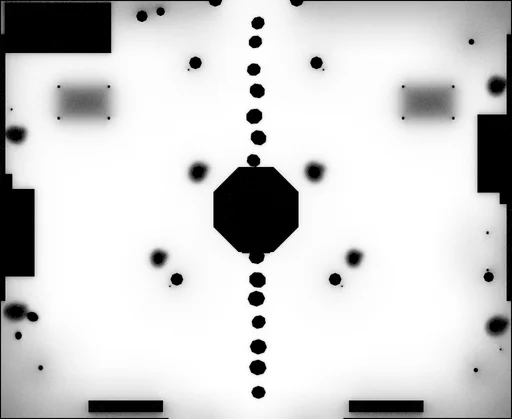
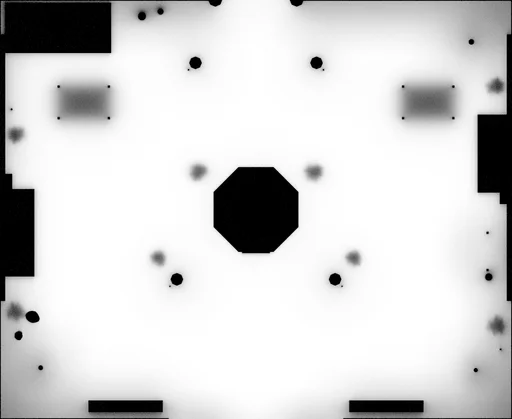
feat(world): laid granite walks through the courtyard and down Hangul Village; courtyard floor light re-baked
- Courtyard (first room): arrival → egg → gate path was a gravel strip with
  round stepping stones — from the start view and above it read as a row
  of dark discs on the pale madang. Now two slabWalk() runs (박석 slabs,
  kerbs, joint bed), same as the Hub square.
- Phones: the dark discs were mostly the stones' shadows baked into the
  courtyard's shade layer (court_shade.webp / court_ao.webp, from 16 Oct).
  Re-baked with Cycles (bpy 5.2) from the current room — also picks up the
  newer trees, azalea and flowers. export-geometry skips geometry under
  4.5 cm (laid paving would otherwise print kerb lines).
- Hangul Village: stepping stones up the cobbled street and along the lane
  to the Hub → laid granite walks parting round the well.
- Phone tier courtyard 129 → 128 calls; Hangul Village 239 → 238.

Claude-Session: https://claude.ai/code/session_015xew6y5Xw3vbfm4LCKV75f

diff --git a/src/game/environment/Lobby.tsx b/src/game/environment/Lobby.tsx
@@ -7,7 +7,7 @@ import ModelProp, { type PropPlacement } from "./ModelProp";
 import { REAL_PROPS } from "../systems/styleMode";
 import CloverEgg from "./CloverEgg";
 import { BakedShade, useBakedFloor } from "./BakedFloor";
-import { BED_SOIL, Kit, azalea, bed, flowers, gatehouse, grass, gutter, hanokHouse, noticeBoard, pine, planter, platform, pot, rock, steppingStones, stoneLantern, tree, wallRun } from "./kit";
+import { BED_SOIL, Kit, azalea, bed, flowers, gatehouse, grass, gutter, hanokHouse, noticeBoard, pine, planter, platform, pot, rock, slabWalk, stoneLantern, tree, wallRun } from "./kit";
 import { Gate, Signboard } from "./parts";
 import { paintMadang, useTiledTexture, floorBreakup, FLOOR_BREAKUP_KEY } from "./textures";
 import { FLOOR_GRID } from "../config/world";
@@ -58,12 +58,11 @@ const COURTYARD_KIT: Kit = (() => {
   // Village roofs beyond the north wall: the promise of what is next.
   hanokHouse(k, { x: -6.5, z: -HD - 4.2, w: 6, d: 4.2, h: 2.4, face: "+z" });
   hanokHouse(k, { x: 6.8, z: -HD - 4.6, w: 5.4, d: 4.4, h: 2.8, face: "+z", roofH: 1.3 });
-  // The path the eye follows: arrival → egg → gate, in pale dressed stone
-  // on a darker bed of gravel, so the route reads from anywhere.
-  k.box("gravel", [0, 0.006, (PROPS.eggPlinth.w / 2 + 0.6 + HD - 1.2) / 2], [1.25, 0.012, HD - 1.8 - PROPS.eggPlinth.w / 2], false);
-  k.box("gravel", [0, 0.006, (-PROPS.eggPlinth.w / 2 - 0.6 - HD + 0.9) / 2], [1.25, 0.012, HD - 1.5 - PROPS.eggPlinth.w / 2], false);
-  steppingStones(k, 0, PROPS.eggPlinth.w / 2 + 0.6, 0, HD - 1.2, 0.95, 3, "stoneWarm");
-  steppingStones(k, 0, -PROPS.eggPlinth.w / 2 - 0.6, 0, -HD + 0.9, 0.95, 17, "stoneWarm");
+  // The path the eye follows: arrival → egg → gate, a laid granite walk
+  // (박석) with kerbs, so the route reads from anywhere without dotting the
+  // pale madang with dark discs.
+  slabWalk(k, 0, HD - 0.75, 0, PROPS.eggPlinth.w / 2 + 0.45, 1.25, 3);
+  slabWalk(k, 0, -PROPS.eggPlinth.w / 2 - 0.45, 0, -HD + 0.45, 1.25, 17);
   // Drip-line gravel along every wall foot.
   gutter(k, -HW + 0.27, -HD, -HW + 0.27, HD);
   gutter(k, HW - 0.27, -HD, HW - 0.27, HD);

diff --git a/src/game/environment/HangulVillage.tsx b/src/game/environment/HangulVillage.tsx
@@ -2,7 +2,7 @@ import { MAT } from "../config/materials";
 import { VILLAGE } from "../config/rooms";
 import { PALETTE } from "../config/world";
 import Batch from "./Batch";
-import { Kit, bed, cart, curvedRoofOn, grass, hanokHouse, hanokRoof, jitter, platform, pot, shrub, steppingStones, tree, wallRun, gatehouse, flowerBox } from "./kit";
+import { Kit, bed, cart, curvedRoofOn, grass, hanokHouse, hanokRoof, jitter, platform, pot, shrub, slabWalk, tree, wallRun, gatehouse, flowerBox } from "./kit";
 import { Gate, GateWall, Lamps, Signboard, Sway } from "./parts";
 import { VILLAGE_LETTERS } from "../config/interactions";
 import { paintPaving, useTiledTexture, usePhotoFloor, floorBreakup, FLOOR_BREAKUP_KEY } from "./textures";
@@ -78,7 +78,7 @@ const VILLAGE_KIT: Kit = (() => {
   const laneZ = VILLAGE.hubLaneZ;
   wallRun(k, HW + 0.3, laneZ - 1.9, HW + 6, laneZ - 1.9, 2.2);
   wallRun(k, HW + 0.3, laneZ + 1.9, HW + 6, laneZ + 1.9, 2.2);
-  steppingStones(k, HW + 0.4, laneZ, HW + 5.4, laneZ, 0.9, 41, "stoneWarm");
+  slabWalk(k, HW + 0.3, laneZ, HW + 5.7, laneZ, 1.1, 41);
   hanokRoof(k, HW + 9, laneZ, 3.2, 5, 6, 1.4);
   gatehouse(k, HW + 0.25, laneZ, -Math.PI / 2, { open: true, accent: true });
 
@@ -125,9 +125,10 @@ const VILLAGE_KIT: Kit = (() => {
   bed(k, 4.35, 9.3, 0.8, 1.2, 19);
   cart(k, VILLAGE.cart.x, VILLAGE.cart.z, VILLAGE.cart.w, VILLAGE.cart.d);
 
-  // A slate path up the middle of the street.
-  steppingStones(k, 0, HL - 1, 0, 1.4, 1.1, 5, "stoneWarm");
-  steppingStones(k, 0, -1.4, 0, -HL + 1, 1.1, 29, "stoneWarm");
+  // A laid granite walk (박석) up the middle of the cobbled street, parting
+  // round the well. Round stepping stones read as pale discs on paving.
+  slabWalk(k, 0, HL - 0.5, 0, 1.2, 1.25, 5);
+  slabWalk(k, 0, -1.2, 0, -HL + 0.5, 1.25, 29);
   return k;
 })();
 

diff --git a/scripts/world-bake/README.md b/scripts/world-bake/README.md
@@ -12,4 +12,9 @@ Re-bake when a room's layout changes (walls, buildings, trees, props):
    (half width and half depth of the room, from `ROOM` in config/world.ts)
 4. `node scripts/world-bake/make-maps.mjs bake court`
 
-Courtyard baked 16 Oct 2026 (Blender 5.0, Cycles CPU, 64 samples, ~4 min).
+Courtyard baked 16 Oct 2026 (Blender 5.0, Cycles CPU, 64 samples, ~4 min);
+re-baked 31 Oct 2026 after the stepping stones became a laid slab walk
+(their dark discs were still printed in the phones' shade layer). Without a
+Blender install, `pip install bpy` (Python 3.13 wheel) and run
+`python3 bake.py -- court.f32 out 11 9 1024 64` works the same. Geometry
+whose top is under 4.5 cm (laid paving) is left out of the bake.
